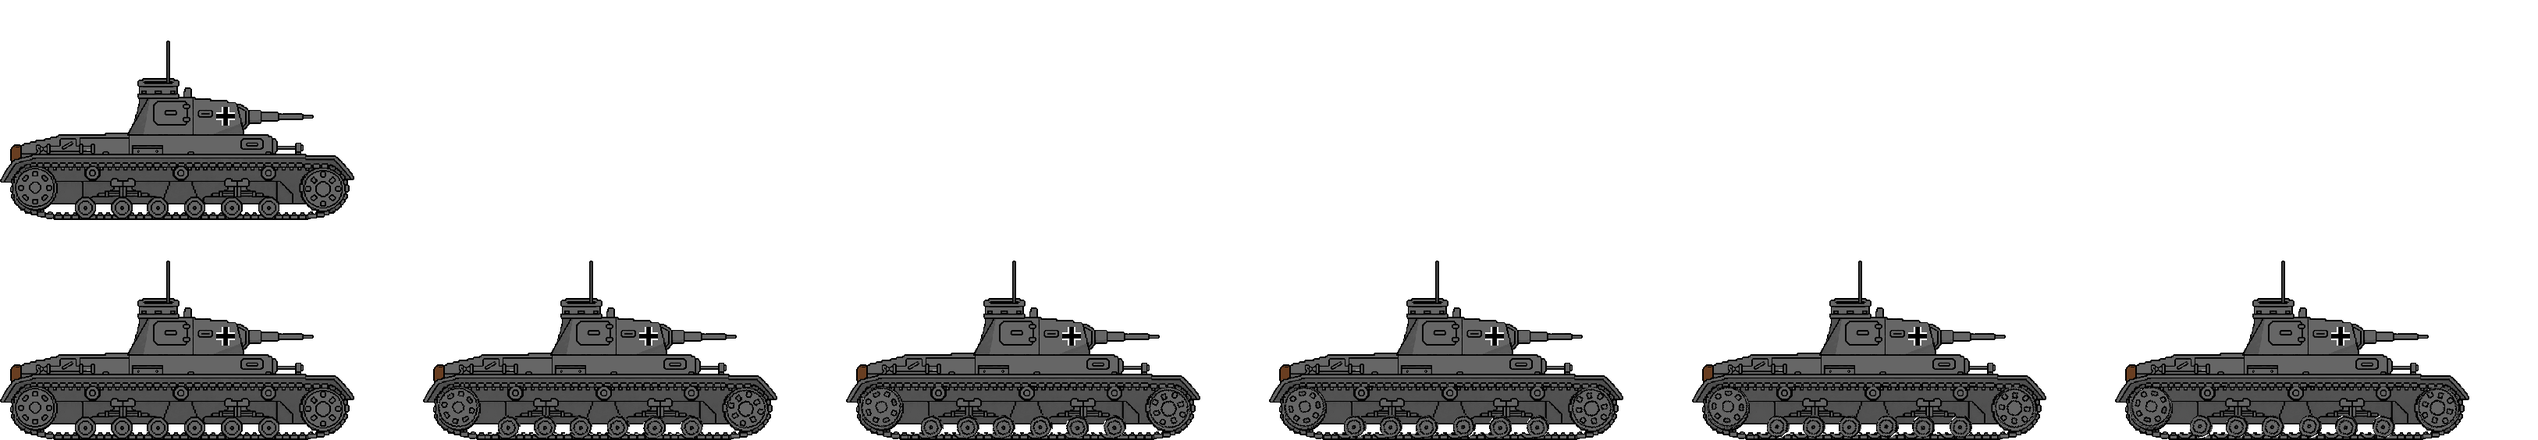
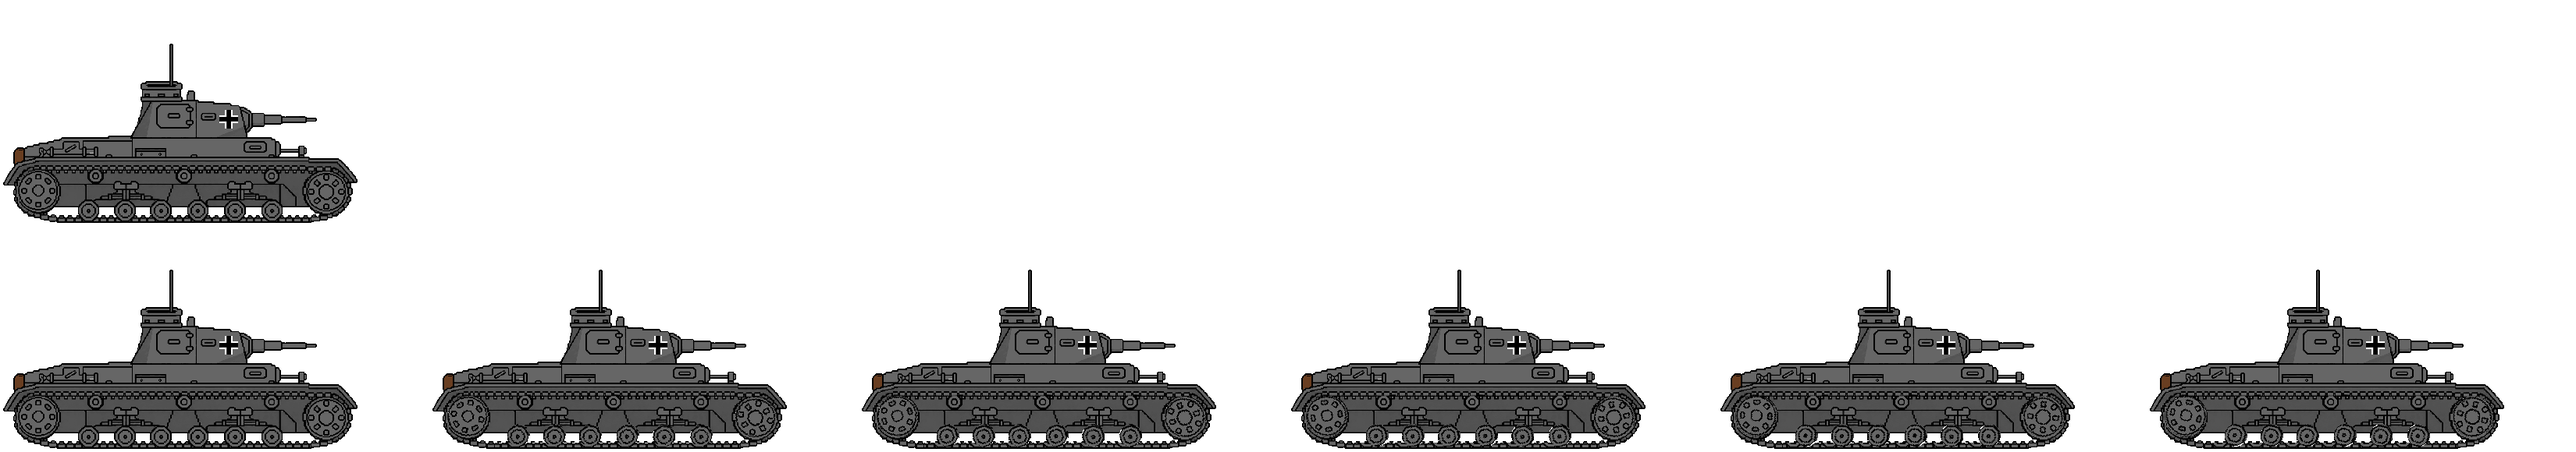
2d anim fix

Changed region(s): [[0.0, 0.6631, 0.8075, 1.0], [0.0, 0.1809, 0.1553, 0.5124], [0.8386, 0.6631, 0.9938, 1.0]]

diff --git a/tests/unit/vehicleArt.test.js b/tests/unit/vehicleArt.test.js
@@ -3,7 +3,7 @@ import assert from 'node:assert/strict'
 import { createPageElements } from './helpers/dom.js'
 import { loadAtlas } from './helpers/atlas.js'
 
-let Tank, tankKinds, TankSprite, sideProjection, vehicleArt, GameClock
+let Tank, tankKinds, TankSprite, sideProjection, vehicleArt, GameClock, looks
 const context = { save() {}, restore() {}, translate() {}, rotate() {}, scale() {}, drawImage() {} }
 
 before(async() => {
@@ -14,18 +14,25 @@ before(async() => {
   ;({ sideProjection } = await import('/core/actor/projection.js'))
   ;({ default: vehicleArt } = await import('/core/actor/vehicleArt.js'))
   ;({ default: GameClock } = await import('/core/runtime/GameClock.js'))
+  looks = await import('/core/actor/tankLooks.js')
 })
 
 for (const [name, kindName, artName, width, height, yaw] of [
   ['partisan', 'partisan', 'partisanTank', 300, 129, 0],
   ['German', 'german', 'germanTank', 327, 137, Math.PI],
   ['Somua', 'somua', 'somuaS35', 379, 166, Math.PI],
+  ['M15/42', null, 'm15', 202, 102, Math.PI],
+  ['StuG III', null, 'stug', 216, 89, Math.PI],
+  ['Hotchkiss', null, 'hotchkiss', 169, 88, Math.PI],
 ]) test(`${name} tank view fits the atlas to the body and rolls both ways`, t => {
-  const kind = tankKinds[kindName]
+  const look = kindName ? null : looks[artName]
+  const kind = look?.kind ?? tankKinds[kindName]
+  const art = look?.art ?? vehicleArt[artName]
+  assert.equal(art.gutter, 4)
   const projection = sideProjection({ pxPerMeter: 22, groundY: 300 })
   const tank = new Tank({ kind, yaw, x: 20, clock: new GameClock() })
-  const view = new TankSprite(tank, { art: vehicleArt[artName], barrel: { src: 'barrel.png' }, projection })
-  loadAtlas(view, width * 4, height * 6)
+  const view = new TankSprite(tank, { art, barrel: { src: 'barrel.png' }, projection })
+  loadAtlas(view, (width + 8) * 4, (height + 8) * (art.wreckRow === undefined ? 6 : 7))
   assert.deepEqual([view.width, view.height, view.y], [kind.size.length * 22, kind.size.height * 22, 300],
     'a loaded atlas keeps the body size before the game moves anything')
   const draws = []
@@ -37,26 +44,33 @@ for (const [name, kindName, artName, width, height, yaw] of [
     view.render(context)
   }
   roll(tank.forward, .16)
-  assert.deepEqual(draws.at(-1).slice(1, 5), [width, height, width, height])
-  assert.equal(draws.at(-2)[2], height * 3, 'forward turret over the rolling hull')
+  assert.deepEqual(draws.at(-1).slice(1, 5), [width + 12, height + 12, width, height])
+  assert.equal(draws.at(-2)[2], (height + 8) * 3 + 4, 'forward turret over the rolling hull')
   tank.aimAt({ x: tank.x - tank.forward * 12, y: tank.y })
   view.render(context)
-  assert.equal(draws.at(-2)[2], height * 5, 'only the turret switches to its opposite side')
-  assert.deepEqual(draws.at(-1).slice(1, 5), [width, height, width, height])
+  assert.equal(draws.at(-2)[2], (height + 8) * 5 + 4, 'only the turret switches to its opposite side')
+  assert.deepEqual(draws.at(-1).slice(1, 5), [width + 12, height + 12, width, height])
   const { clipTime } = view
   view.update(0)
   assert.equal(view.clip, 'drive', 'the first zero-time tick after resuming preserves the pose')
   assert.equal(view.clipTime, clipTime, 'pause/resume preserves the held drive phase')
   view.clipTime = 0
   roll(-tank.forward, .16)
-  assert.deepEqual(draws.at(-1).slice(1, 5), [width * 3, height, width, height])
+  assert.deepEqual(draws.at(-1).slice(1, 5), [(width + 8) * 3 + 4, height + 12, width, height])
   roll(0, .1)
-  assert.equal(draws.at(-1)[2], 0, 'stopping uses the static idle row')
+  assert.equal(draws.at(-1)[2], 4, 'stopping uses the padded static idle row')
   tank.setState('dead')
   tank.update(1)
   view.update(1)
   assert.equal(view.clip, 'idle')
   assert.equal(view.frameIndex, 0)
+  if (art.wreckRow !== undefined) {
+    const before = [view.width, view.height, view.y]
+    view.flammable = false
+    view.render(context)
+    assert.deepEqual(draws.at(-1).slice(1, 5), [4, (height + 8) * 6 + 4, width, height])
+    assert.deepEqual([view.width, view.height, view.y], before, 'padding does not resize embedded wrecks')
+  }
 })
 
 test('a tank barrel leads with its mouth: art pointing left is mirrored, never turned upside down', () => {

diff --git a/core/actor/vehicles/TankSprite.js b/core/actor/vehicles/TankSprite.js
@@ -3,6 +3,7 @@ import Barrel from '/core/actor/Barrel.js'
 import ShellSprite from '/core/actor/projectiles/ShellSprite.js'
 import Sound from '/core/io/audio/SoundSource.js'
 import { bodyImage, wreckFor } from '/core/actor/wreckView.js'
+import atlasFrame from '/core/actor/atlasFrame.js'
 
 /**
  * How a tank body looks and sounds in 2D, from its atlas `art` (vehicleArt.js), which points the way `facing` says
@@ -79,7 +80,7 @@ export default class TankSprite extends BodySprite {
 
   render(ctx) {
     if (!this.shown) return
-    const { frame, clips, contentBounds } = this.art
+    const { frame, clips, contentBounds, gutter = 0 } = this.art
     let x = -this.width / 2, y = -this.height / 2, { width, height } = this
     if (contentBounds) {
       const [left, top, right, bottom] = contentBounds
@@ -97,12 +98,11 @@ export default class TankSprite extends BodySprite {
     const image = bodyImage(this)
     const wreckRow = this.body.dead && this.art.wreckRow !== undefined ? this.art.wreckRow : undefined
     if (image !== this.image || wreckRow !== undefined)
-      ctx.drawImage(image, 0, (wreckRow ?? 0) * frame.height, frame.width, frame.height, x, y, width, height)
+      ctx.drawImage(image, ...atlasFrame(frame.width, frame.height, 0, wreckRow ?? 0, image === this.image ? gutter : 0), x, y, width, height)
     else {
-      const frameX = this.frameIndex * frame.width
       const turretRow = clips[this.clip].row + (this.body.turretBack ? 4 : 2)
-      ctx.drawImage(image, frameX, turretRow * frame.height, frame.width, frame.height, x, y, width, height)
-      ctx.drawImage(image, frameX, clips[this.clip].row * frame.height, frame.width, frame.height, x, y, width, height)
+      ctx.drawImage(image, ...atlasFrame(frame.width, frame.height, this.frameIndex, turretRow, gutter), x, y, width, height)
+      ctx.drawImage(image, ...atlasFrame(frame.width, frame.height, this.frameIndex, clips[this.clip].row, gutter), x, y, width, height)
     }
     ctx.restore()
     if (this.burning) this.flame.render(this.smoky)

diff --git a/tests/unit/advanceArt.test.js b/tests/unit/advanceArt.test.js
@@ -111,10 +111,33 @@ test('the actual shared view animates tracks and commander and mirrors their pla
   sprite.draw(ctx, { ...pose, time: .35, flip: -1 })
   const mount = (art.tank.crewAnchor.x - art.tank.anchor.x) * 40 * 2.27 / art.tank.standingPixels
   assert.deepEqual(draws.map(({ flip, x }) => [flip, x]), [[1, 200], [1, 200 + mount], [-1, 200], [-1, 200 - mount]])
-  assert.equal(draws[0].row, art.tank.height)
+  assert.equal(draws[0].row, 294)
   assert.notEqual(draws[0].column, draws[2].column)
   assert.equal(draws[1].image, sprite.crew.image)
   assert.notEqual(draws[1].column, draws[3].column)
+})
+
+test('tank frames are sampled inside transparent gutters without changing their drawing bounds', async() => {
+  createPageElements()
+  const { default: AdvanceSprite } = await import('/core/actor/AdvanceSprite.js')
+  const sprite = new AdvanceSprite('tank')
+  Object.defineProperty(sprite.sheet.image, 'naturalWidth', { value: 3300, configurable: true })
+  const draws = []
+  const ctx = { save() {}, restore() {}, translate() {}, scale() {}, drawImage: (...args) => draws.push(args.slice(1)) }
+  assert.equal(art.tank.gutter, 4)
+  for (const flip of [1, -1]) for (const scale of [40, 320]) {
+    draws.length = 0
+    for (let i = 0; i < 6; i++) sprite.draw(ctx, {
+      name: 'drive', time: i * .095 + .01, x: 200, y: 150, scale, flip, crewVisible: false,
+    })
+    assert.deepEqual(draws.map(rect => rect.slice(0, 4)), Array.from({ length: 6 }, (_, i) => [4 + i * 550, 294, 542, 282]))
+    const size = scale * 2.27 / 182
+    assert.ok(draws.every(rect => rect[4] === -200 * size && rect[5] === -282 * size
+      && rect[6] === 542 * size && rect[7] === 282 * size))
+    draws.length = 0
+    sprite.draw(ctx, { name: 'idle', time: 0, x: 200, y: 150, scale, flip, crewVisible: false })
+    assert.deepEqual(draws[0].slice(0, 4), [4, 4, 542, 282])
+  }
 })
 
 test('a signaling NCO stays planted, never fires, and resumes his own marching phase', () => {

diff --git a/tests/unit/preparedArtIntegration.test.js b/tests/unit/preparedArtIntegration.test.js
@@ -136,8 +136,8 @@ for (const yaw of [0, Math.PI]) test(`Hummel fires a real shell at the drawn muz
   const body = new Hummel({ x: 6, y: 1.68, yaw })
   const options = viewOptions()
   const view = new VehicleView(body, { art: spriteArt.hummel, attack: art.hummelFire, facing: 1, ...options })
-  loadAtlas(view, 1280, 320)
-  loadAtlas(view.fireArt, 2304, 176)
+  loadAtlas(view, 1312, 336)
+  loadAtlas(view.fireArt, 2352, 184)
   const sound = t.mock.method(view.shotSound, 'play', () => {})
   assert.equal(body.shoot(), true)
   assert.equal(body.shoot(), false)
@@ -151,6 +151,7 @@ for (const yaw of [0, Math.PI]) test(`Hummel fires a real shell at the drawn muz
   const ctx = context()
   view.render(ctx)
   assert.equal(ctx.draws[0][0], view.fireArt.image)
+  assert.deepEqual(ctx.draws[0].slice(1, 5), [4, 4, 384, 176], 'recoil starts inside its padded cell')
   view.update(0)
   assert.equal(sound.mock.callCount(), 1)
   body.update(.9)
@@ -158,6 +159,7 @@ for (const yaw of [0, Math.PI]) test(`Hummel fires a real shell at the drawn muz
   assert.equal(body.state, 'idle')
   view.render(ctx)
   assert.equal(ctx.draws.at(-1)[0], view.image)
+  assert.deepEqual(ctx.draws.at(-1).slice(1, 5), [4, 4, 320, 160], 'idle uses the hull cell inside its gutter')
   body.takeHit(1000)
   assert.equal(body.shoot(), false)
 })

diff --git a/core/actor/ArtClip.js b/core/actor/ArtClip.js
@@ -1,4 +1,5 @@
 import GameObject2D from './GameObject2D.js'
+import atlasFrame from './atlasFrame.js'
 
 /** A separately loaded atlas, drawn by its owning view at a measured anchor; never an independent actor. */
 export default class ArtClip extends GameObject2D {
@@ -30,13 +31,13 @@ export default class ArtClip extends GameObject2D {
 
   draw(ctx, { name, time, x, y, scaleX, scaleY = scaleX, flip = 1, reverse = false }) {
     if (!this.image.naturalWidth) return false
-    const { width, height, anchor } = this.art
+    const { width, height, anchor, gutter = 0 } = this.art
     const { row, frame } = this.sample(name, time, reverse)
     ctx.save()
     ctx.translate(x, y)
     ctx.scale(flip, 1)
     ctx.imageSmoothingEnabled = false
-    ctx.drawImage(this.image, frame * width, row * height, width, height,
+    ctx.drawImage(this.image, ...atlasFrame(width, height, frame, row, gutter),
       -anchor.x * scaleX, -anchor.y * scaleY, width * scaleX, height * scaleY)
     ctx.restore()
     return true

diff --git a/core/actor/AtlasSprite.js b/core/actor/AtlasSprite.js
@@ -1,5 +1,6 @@
 import BodySprite from './BodySprite.js'
 import { bodyImage, wreckFor } from './wreckView.js'
+import atlasFrame from './atlasFrame.js'
 
 /**
  * The view of a body drawn from an atlas `art` of clips in rows (spriteArt.js): the drawn body, `art.body`, fills the
@@ -45,7 +46,8 @@ export default class AtlasSprite extends BodySprite {
     ctx.rotate(this.angle)
     ctx.scale(this.flipY, 1)
     ctx.imageSmoothingEnabled = false
-    ctx.drawImage(image, wrecked ? 0 : this.frame * width, wrecked ? 0 : art.clips[this.clip].row * height, sourceWidth, sourceHeight,
+    const source = wrecked ? [0, 0, sourceWidth, sourceHeight] : atlasFrame(width, height, this.frame, art.clips[this.clip].row, art.gutter)
+    ctx.drawImage(image, ...source,
       (dx - (left + right) / 2) * scale, this.height / 2 + (dy - art.anchor.y) * scale, sourceWidth * scale, sourceHeight * scale)
     ctx.restore()
     if (this.burning) this.flame.render(this.smoky)

diff --git a/core/actor/vehicleArt.js b/core/actor/vehicleArt.js
@@ -3,6 +3,7 @@ import spriteArt from './spriteArt.js'
 
 export default {
   'partisanTank': {
+    gutter: 4,
     'src': 'game-ready/tenkovi/partizanski-tenk-layers.webp',
     'frame': {
       'width': 300,
@@ -23,6 +24,7 @@ export default {
     }
   },
   'germanTank': {
+    gutter: 4,
     'src': 'game-ready/tenkovi/nemacki-tenk-layers.webp',
     'frame': {
       'width': 327,
@@ -43,6 +45,7 @@ export default {
     }
   },
   'somuaS35': {
+    gutter: 4,
     'src': 'game-ready/tenkovi/somua-s35-layers.webp',
     'frame': {
       'width': 379,

diff --git a/core/actor/tankLooks.js b/core/actor/tankLooks.js
@@ -18,7 +18,7 @@ export const somuaTank = {
 function profile(id, name, rearAim = true) {
   const { kind, frame } = profiles[id]
   return { id, name, kind, rearAim, facing: -1, barrel: { src: folder + id + '-barrel.webp', facing: -1 },
-    art: { src: folder + id + '-layers.webp', frame, columns: 4, clips: vehicleArt.germanTank.clips, wreckRow: 6 } }
+    art: { src: folder + id + '-layers.webp', frame, columns: 4, clips: vehicleArt.germanTank.clips, wreckRow: 6, gutter: 4 } }
 }
 
 export const m15 = profile('m15-42', 'M15/42')

diff --git a/core/actor/advanceArt.js b/core/actor/advanceArt.js
@@ -38,6 +38,7 @@ export default {
     },
   },
   tank: {
+    gutter: 4,
     src: 'game-ready/tenkovi/advance-tank.webp', width: 542, height: 282, anchor: { x: 200, y: 282 }, standingPixels: 182, crewAnchor: { x: 206, y: 120 },
     clips: {
       idle: { row: 0, ms: [1000], loop: true },

diff --git a/core/actor/atlasFrame.js b/core/actor/atlasFrame.js
@@ -1,0 +1,4 @@
+/** Source cell inside a uniform atlas, excluding its transparent gutter. */
+export default function atlasFrame(width, height, column, row, gutter = 0) {
+  return [column * (width + 2 * gutter) + gutter, row * (height + 2 * gutter) + gutter, width, height]
+}

diff --git a/core/actor/actionArt.js b/core/actor/actionArt.js
@@ -24,6 +24,7 @@ export const riflemanReload = {
 }
 
 export const hummelFire = {
+  gutter: 4,
   muzzle: { x: 335, y: 56 },
   src: 'game-ready/tenkovi/hummel-fire-sprites.webp',
   width: 384, height: 176, anchor: { x: 192, y: 156 },

diff --git a/core/actor/spriteArt.js b/core/actor/spriteArt.js
@@ -185,6 +185,7 @@ export default {
     }
   },
   'hummel': {
+    gutter: 4,
     'src': 'game-ready/tenkovi/hummel-sprites.webp',
     'frame': {
       'width': 320,
